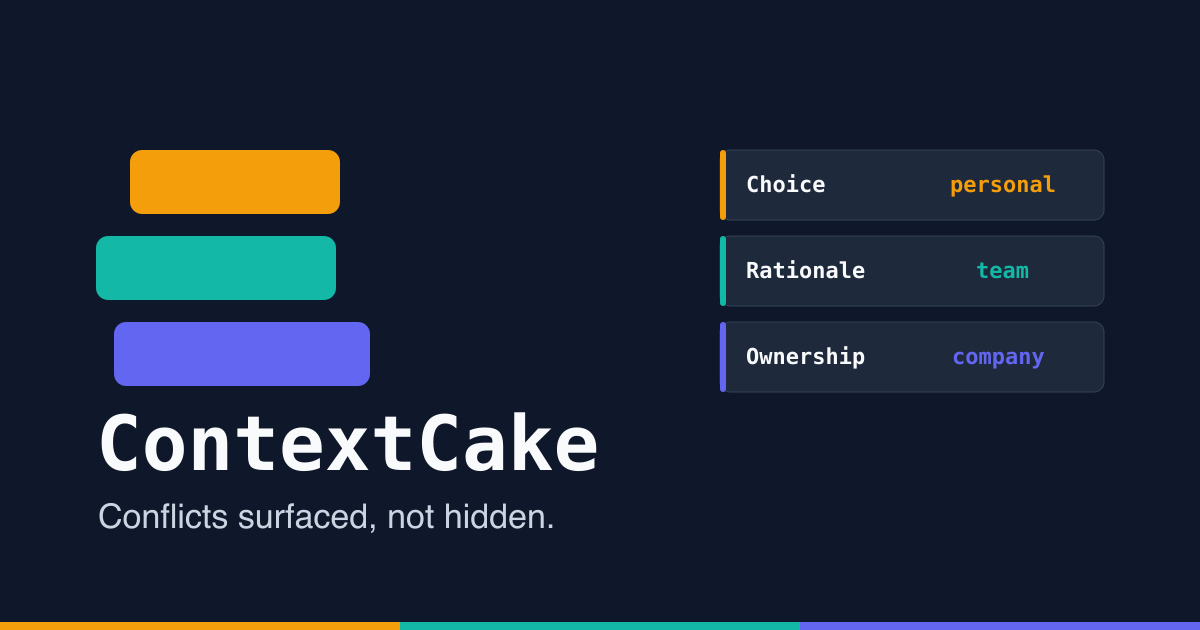
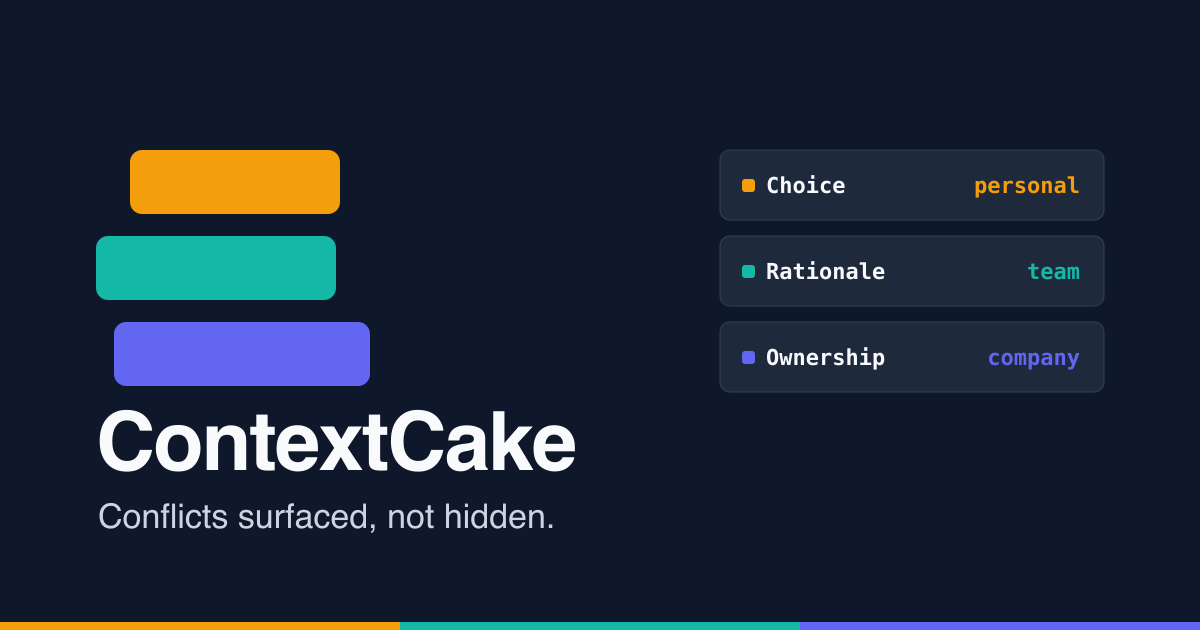
refactor(site): human copy, provenance swatches, mono-for-data-only
Acting on the re-critique (score 33 → 35) decisions:

- Copy pass: rewrote the homepage marketing copy off the AI cadence
  (em-dash flourishes, tidy triplets, repeated "not X — Y"). Hero, problem
  beats, how-it-works steps, feature one-liners, and the for-agents lede now
  read like a person wrote them, with concrete detail and varied structure.
- Provenance stripes → swatches: replaced every `border-left` layer accent
  (hero band + demo band/plane/dissent) with a leading layer-colored swatch —
  a legend key, not a side-stripe. The deterministic detector now reports 0
  findings (was 4 semantic-but-flagged stripes).
- Mono for data only: moved non-data labels to Bricolage (problem-beat terms,
  page kickers, table headers, colheads, the resolve/CTA controls). Mono is
  now reserved strictly for code, CLI, concept IDs, layer names, and dates.
- Regenerated og.png to match: sans wordmark (was a mono fallback) and swatch
  bands instead of stripes.
- design.md §11.5 band anatomy amended to the swatch treatment.

Left for a separate pass (per scope): the /demo keyboard/a11y audit.

diff --git a/specs/contextcake-site/design.md b/specs/contextcake-site/design.md
@@ -320,8 +320,10 @@ Truncate `content` strings for display; never alter structure. Shape (verified):
 
 ### 11.5 Hero visual (§4.1) & /demo — storyboard and constraints
 
-Band anatomy (already shipped in the scaffold's static composite — keep it): 4px left
-border in the winning layer's color; mono section heading; provenance right-aligned
+Band anatomy: a leading layer-colored **swatch** (a small rounded square) before the
+section heading — *not* a side-stripe border (amended 2026-07-03 after the design
+critique flagged `border-left` accents; the swatch reads as a legend key and keeps the
+deterministic detector clean); mono section heading; provenance right-aligned
 (`layer · date`); conflict chip in `--cc-conflict` on conflicted bands.
 
 Phase-5 animation storyboard: (1) three layer planes stacked in precedence order, each